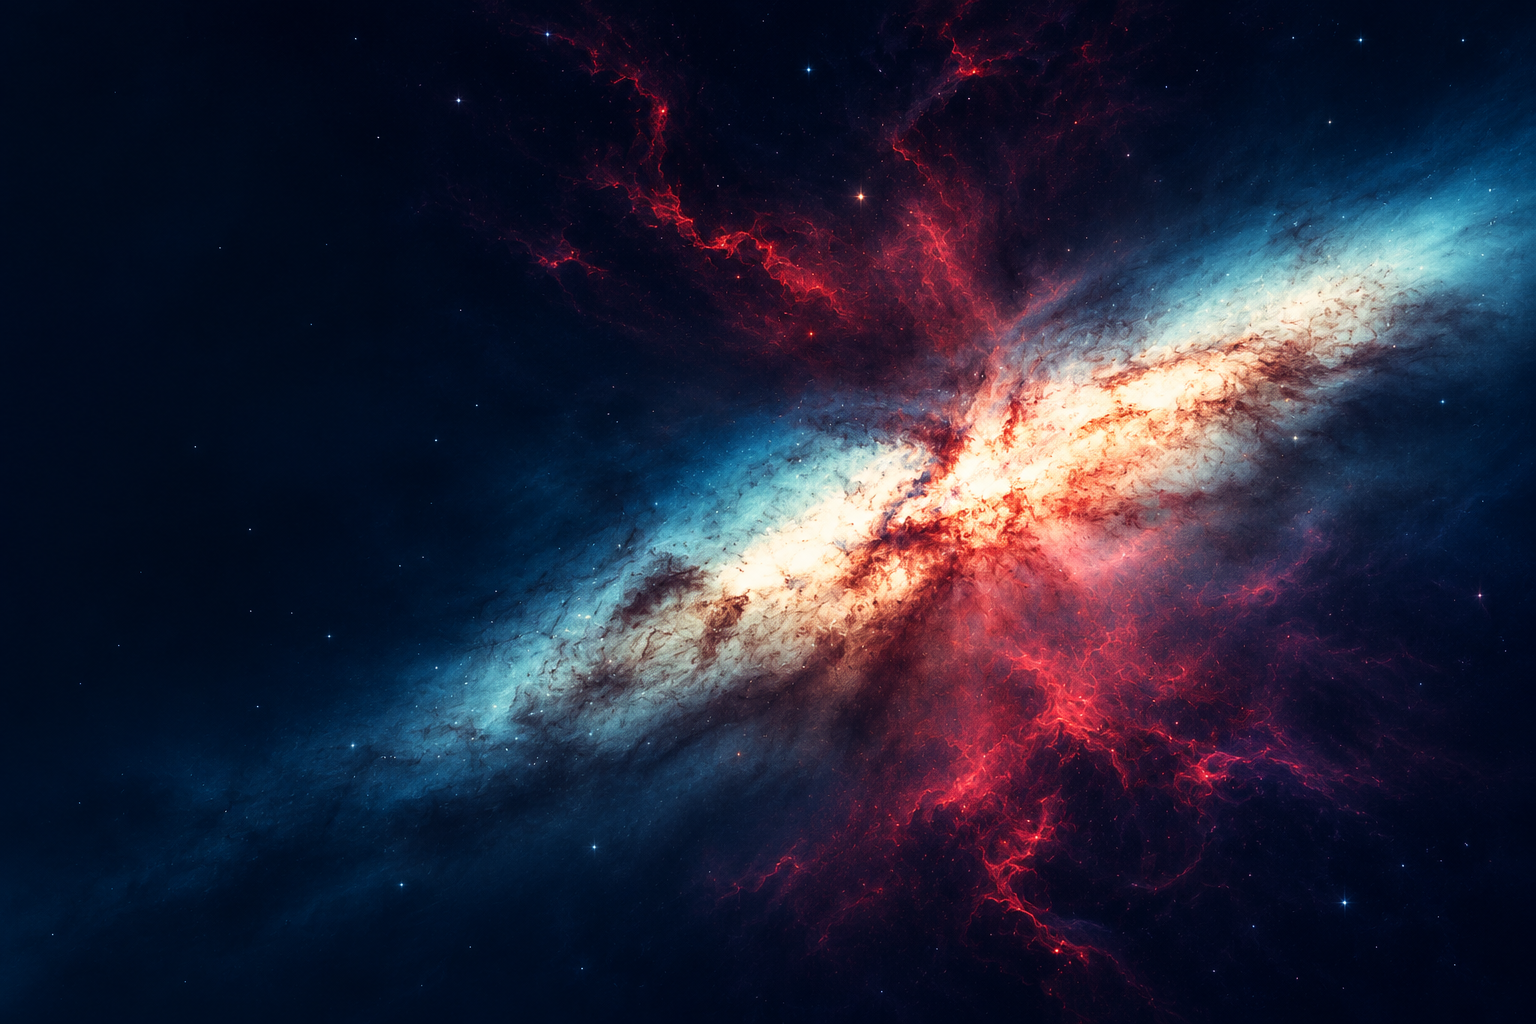
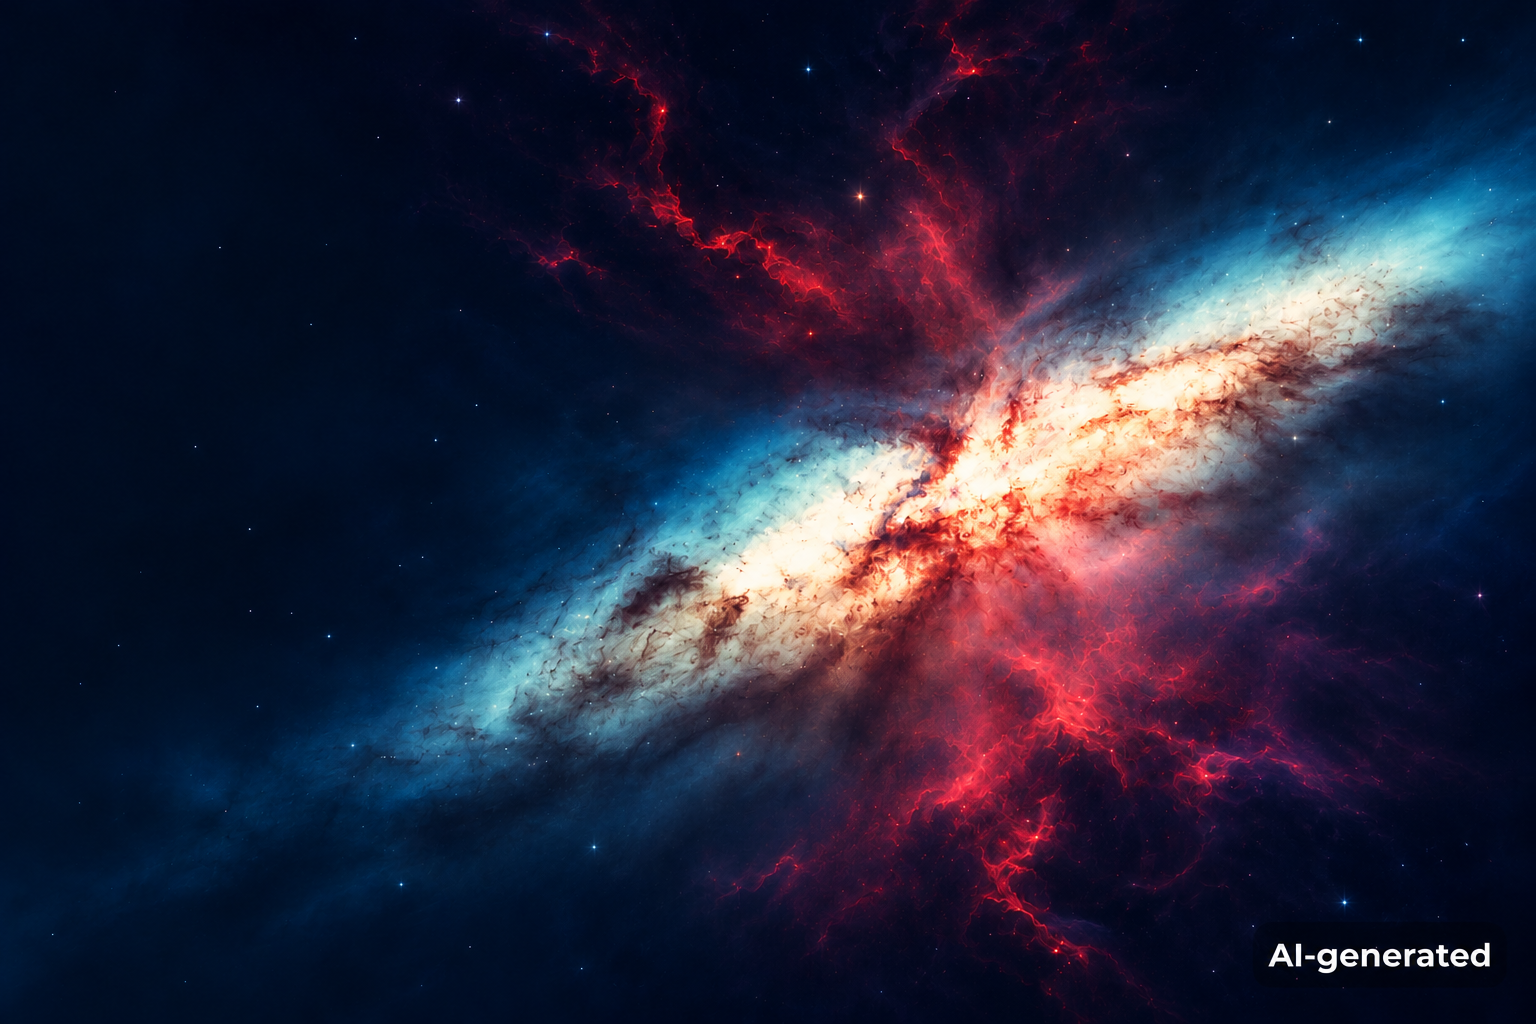
Add files via upload

diff --git a/Assets/supernova.css b/Assets/supernova.css
@@ -22,3 +22,6 @@ body[data-background=off] .app,body[data-background=off][data-space-theme=on] .a
 @media(max-width:1150px){.supernova-tools{margin-left:22px;margin-right:22px;gap:10px}.supernova-tools>span{font-size:8px}}
 @media(max-width:820px){.supernova-tools{margin-left:18px;margin-right:18px}.app,body[data-space-theme=on] .app{background-position:center,60% 0;background-attachment:scroll,scroll}.supernova-tools label{font-size:9px}}
 @media(max-width:600px){.supernova-tools{margin-left:13px;margin-right:13px;padding:12px}.supernova-tools>span{min-width:80px}.supernova-tools input{width:80px}.supernova-swatches{min-width:100px}.app,body[data-space-theme=on] .app{background-size:100% 100%,auto 950px;background-position:center,58% 70px;background-repeat:no-repeat,no-repeat}.future-heading,.protocol-area{padding:14px}}
+
+/* Visible AI provenance label; independent of the 60% background shading. */
+.ai-image-disclosure{position:fixed;right:12px;bottom:10px;z-index:1000;max-width:calc(100vw - 24px);padding:6px 10px;border:1px solid #c2dde480;border-radius:4px;background:#06101ff2;color:#fff;font:12px/1.4 'Segoe UI',sans-serif;letter-spacing:.02em;pointer-events:none}

diff --git a/Assets/supernova.js b/Assets/supernova.js
@@ -2,5 +2,11 @@
  const app=document.querySelector('.app'),image=new Image();image.src='supernova.png';image.alt='';
  // Fixed 60% visual brightness; no palette or adjustment toolbar.
  app.style.backgroundImage='linear-gradient(90deg,rgba(5,13,30,.7),rgba(5,13,30,.48) 42%,rgba(5,13,30,.4)),url("supernova.png")';
+ // Visible disclosure stays legible above the background shading and on all pages.
+ const disclosure=document.createElement('div');
+ disclosure.className='ai-image-disclosure';
+ disclosure.textContent='AI-generated background';
+ disclosure.setAttribute('aria-label','The supernova background image was generated with AI.');
+ document.body.append(disclosure);
  window.SupernovaTheme={image,brightness:60};
 })();

diff --git a/README.md b/README.md
@@ -108,6 +108,16 @@ Personal measurements are encrypted at `%LOCALAPPDATA%\ORBIT-Decision\manual-rec
 - No actual station-to-Earth medical report transmission.
 - General adult references are not validated personal spaceflight thresholds. Being within range does not establish health or fitness for flight.
 
+## AI assistance and generated content
+
+ChatGPT/Codex assisted with brainstorming, research support, code generation, debugging, test preparation, interface design, English translation and project documentation. AI assistance during development does not mean the application runs a trained clinical AI model.
+
+The supernova background (`Assets/supernova.png`) was generated with OpenAI image generation. It is an illustrative visual, not a NASA telescope observation or scientific dataset. The application displays a visible **AI-generated background** label above this image on every page. The image file includes an embedded AI-generated watermark. An additional label supplied by `Assets/supernova.js` and `Assets/supernova.css` remains readable when the application crops or shades its background. Any separately shared image or screenshot must retain a visible AI disclosure.
+
+Demo health values are synthetic fixtures generated by application code. NASA DONKI/RadLab records are retrieved public data, not AI-generated measurements. Personal records remain user-entered. Voice warnings use local Windows SAPI text-to-speech.
+
+Machine-readable provenance is provided in [docs/AI_USAGE.json](docs/AI_USAGE.json). This declaration does not establish the origin or usage rights of other supplied visual assets or presentation materials; those require their own source and usage checks.
+
 ## Sources
 
 - [NASA DONKI](https://ccmc.gsfc.nasa.gov/tools/DONKI/)
